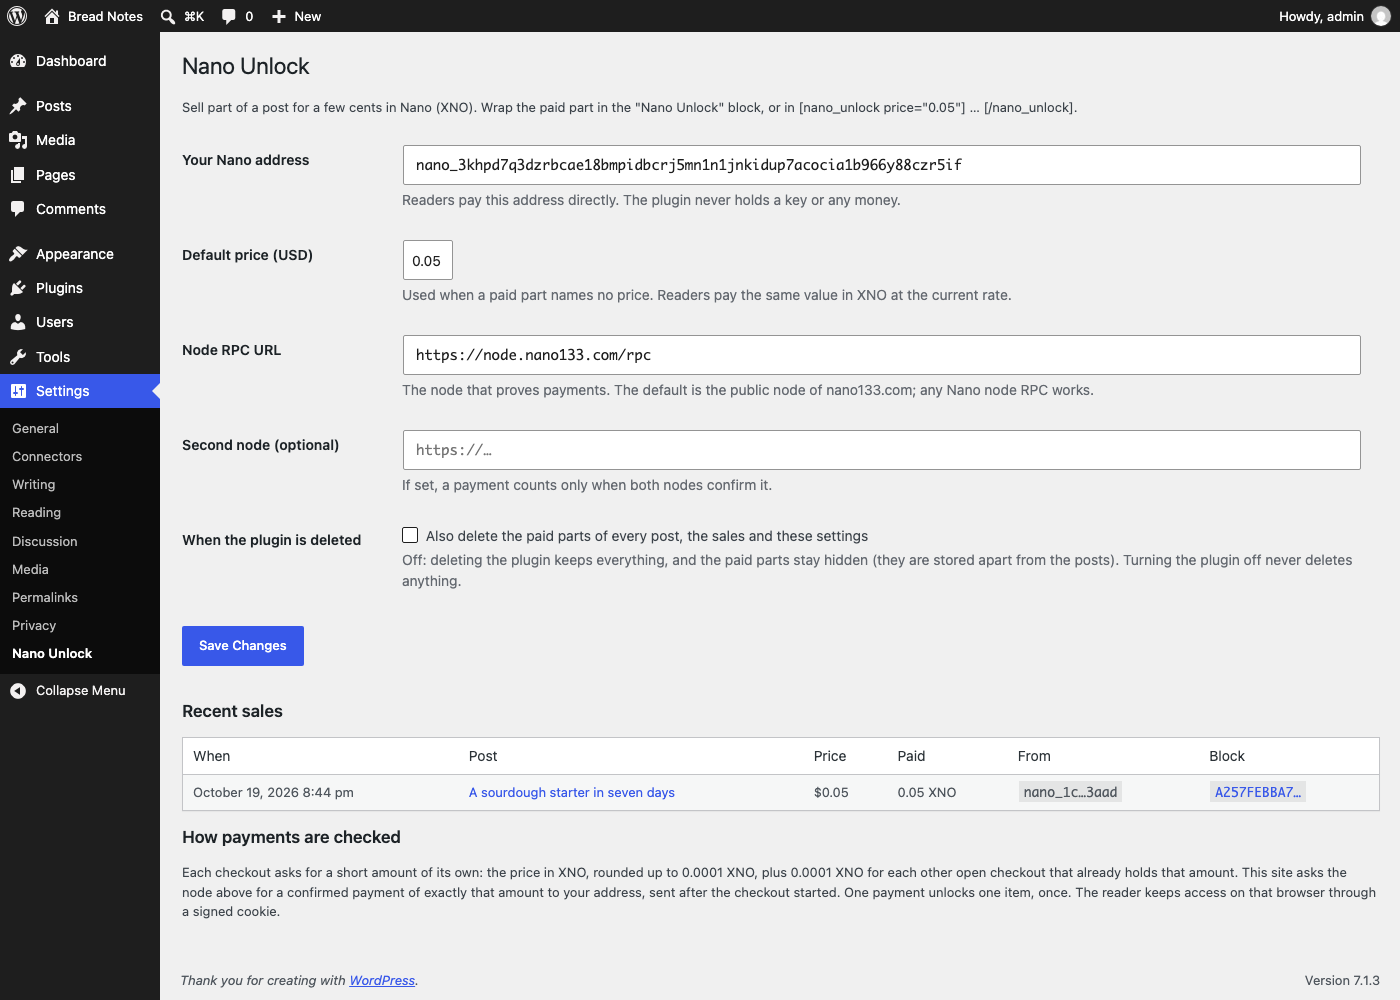
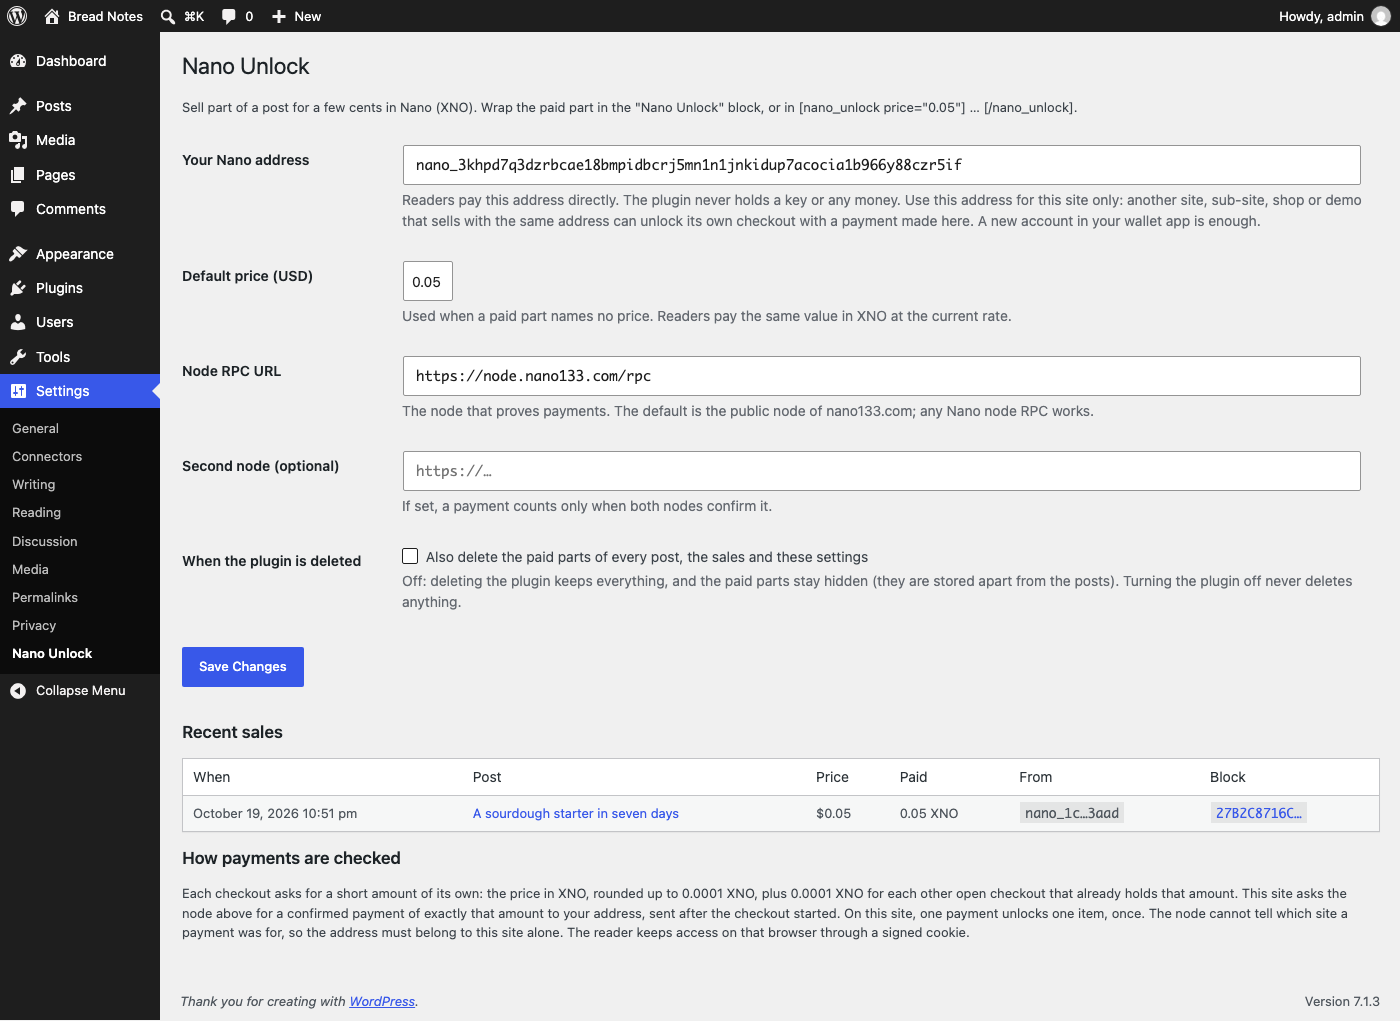
Docs: one address per site, what crosses, CDN visitors, capacity, the scan and the clock
readme.txt and README.md, from the review: "one payment unlocks one item,
once" holds on one site only, and an address must not be shared by two
sites, sub-sites, a shop or the demo (each Playground tab is its own site);
the accepted crossings (a second send, a send after Cancel or after the late
window) can unlock another reader's checkout; behind a CDN that hides the
reader's address, the nano_unlock_client_ip filter; the capacity per price
and the 80-minute hold of a left checkout; the 50-entry scan and opening
the wallet; the node's clock and catch-up; the rate-limit counters in the
privacy answer; multisite uninstall; an Upgrade Notice. Screenshots 2 and
5 made again (the settings page's new address help).

diff --git a/README.md b/README.md
@@ -116,8 +116,16 @@ the paid part with a dashed border and a note, so they can check it.
    address**, first seen by the node **after the checkout started** (its
    `local_timestamp`, with 2 minutes for the clocks; a block without one
    never counts). With a second node, both must agree.
-4. **Once.** The payment's block hash is stored with a unique key, so one
-   payment unlocks one checkout, once.
+4. **Once, on this site.** The payment's block hash is stored with a unique
+   key, so on one site one payment unlocks one checkout, once. A confirmed
+   block's answer is kept for an hour, so an older payment of a repeated
+   amount costs one `block_info` call, not one per poll. **One address
+   serves one site only:** the node can't tell which site a payment was
+   for, and two sites that sell at the same price ask for the same amount,
+   so one payment can unlock a checkout on both (also two sites of one
+   network, a shop on the same address, and each Playground tab of the
+   demo). The settings page says so, and on a network it warns when another
+   site has the same address.
 5. **The receipt.** Only the browser that started the checkout (a random
    httpOnly cookie) gets the receipt. All of a browser's receipts share one
    httpOnly cookie, `nano_unlock_receipts`, signed with the site's key
@@ -172,12 +180,33 @@ checkout that gets the amount. A reader who just leaves the page cancels
 nothing.
 
 **Coincidences.** A payment matches only an open checkout that holds exactly
-its amount, sent to the site's address after that checkout started. The
-plugin's own payments can't cross: two open checkouts never share an amount,
-and a used payment is skipped. Only an outside payment to the same address,
-of exactly that 4-decimal amount, during a reader's checkout, would unlock
-it; the owner still receives that money. Round amounts (0.1 XNO, 1 XNO) are the
-likely ones; an address used only for the plugin has none.
+its amount, sent to the site's address after that checkout started. On one
+site, two open checkouts never share an amount, and a used payment is
+skipped. A payment outside its own checkout's time can unlock another
+reader's checkout of the same amount: a second send, a send more than a
+minute after Cancel, or a send more than an hour after its checkout
+expired. So can an outside payment to the same address of exactly that
+4-decimal amount, and any payment on a second site that uses the same
+address. The owner still receives every payment. Round amounts (0.1 XNO,
+1 XNO) are the likely ones; an address used only by the plugin on one site
+has none.
+
+**The node's clock.** "After the checkout started" uses the node's
+`local_timestamp` and the site's clock, with 2 minutes of allowance. A node
+clock more than 2 minutes behind makes early payments not count. After a
+long node outage, a payment the node catches up on may get the catch-up's
+time (not tested).
+
+**Capacity.** All posts at one price share its amounts. At $0.33 per XNO a
+1¢ price has 31 and a 5¢ price 100; at $3.30 per XNO a 1¢ price has 4. A
+reader who leaves without paying or cancelling holds an amount for 80
+minutes, so at most amounts × 60 / 80 such readers an hour fit at one
+price; after that, new readers get "busy" for up to 80 minutes.
+
+**The scan.** The node gives at most 50 receivable sends and 50 history
+entries (the `node.nano133.com` gateway's cap; `receivable` has no
+`offset`). An owner whose wallet leaves more than 50 sends at or above the
+prices unreceived can hide a new payment until the wallet receives.
 
 ### Wallets
 
@@ -201,9 +230,16 @@ node.
 ## Security
 
 - Every REST call needs the page's REST nonce.
-- Rate limits per visitor address: 20 checkouts per 10 minutes (600 per 10
-  minutes for everyone), at most 10 open checkouts at once, and 180 payment
-  checks (and cancels) per minute.
+- Rate limits per visitor: 20 checkouts per 10 minutes (600 per 10 minutes
+  for everyone), at most 10 open checkouts at once, and 180 payment checks
+  (and cancels) per minute. A visitor is a keyed hash of the address
+  (`wp_hash`), an IPv6 address counted by its /64; no counter is named
+  after an unkeyed hash of an address. The count of open checkouts and the
+  new checkout run under a per-visitor `GET_LOCK` (MySQL, MariaDB), so
+  parallel requests can't pass the limit together; SQLite (Playground) has
+  no named locks and runs without.
+- A checkout request that the browser marks `Sec-Fetch-Site: cross-site`
+  (a page on another site) is refused.
 - The visitor address is `REMOTE_ADDR`. Forwarded headers are not trusted,
   because anyone can send them. Behind a proxy or CDN, set the real header
   with the `nano_unlock_client_ip` filter.
@@ -248,6 +284,9 @@ node.
   from the exchange's address. The checkout asks readers to pay from a
   wallet they control.
 - Nobody can stop a reader from copying text they have unlocked.
+- On a WordPress network, each site has its own table and daily clean-up,
+  and deleting the plugin removes the data of the main site only (when its
+  box is ticked); the other sites' tables and settings stay.
 
 ## Development
 
@@ -256,7 +295,7 @@ npm install
 composer install
 npm start          # wp-env on http://localhost:8888 (admin / password), copies the plugin in
 npm run sync       # copy the plugin into wp-env again after a change
-npm test           # PHPUnit: amounts and their reservation (24 parallel processes on SQLite), receipts and offers, addresses, the payment rules, rendering, the REST routes, settings
+npm test           # PHPUnit: amounts and their reservation (24 parallel processes on SQLite), the table update, receipts and offers, addresses, the payment rules and the block cache, rendering, the REST routes, settings
 npm run test:wp    # integration tests inside WordPress: paid-part storage, migration, amounts on MySQL and the update from 0.1.1, uninstall
 npm run lint       # PHPCS with the WordPress Coding Standards and PHPCompatibilityWP
 npm run e2e        # end-to-end test against a MOCK node (no real network, no real money)
@@ -297,12 +336,15 @@ shortcode and a block) and checks:
   pays a second checkout; another browser gets 403 and no receipt;
 - Cancel: only the starting browser; the amount is held for 3 minutes, then
   goes to the next checkout; after the payment arrived, Cancel unlocks
-  instead;
+  instead; with the node down, Cancel in the browser keeps the checkout and
+  the payment that arrives later still unlocks;
 - node down → 503 and nothing unlocks, and Cancel keeps the amount held;
 - 48 fast polls in 6 s cause 2 `receivable` and 2 history calls;
 - the 11th open checkout from one address → 429; the 21st checkout from one
   address in 10 minutes → 429;
 - 60 parallel checkouts (60 visitors) get 0.1000 … 0.1059 XNO, no two alike;
+- 24 parallel checkouts from one visitor: exactly 10 get an amount; a
+  checkout marked `Sec-Fetch-Site: cross-site` → 403;
   50 more at once: 40 get the last steps, 10 are told "busy";
 - the settings page refuses a mistyped address and lists sales;
 - the block loads in the editor with no warnings or script errors.
@@ -349,7 +391,9 @@ https://playground.wordpress.net/#<the blueprint JSON, URL-encoded>
 **The demo takes real money.** Its checkout is a real one: a visitor who
 pays sends about 1 cent of real XNO to the demo wallet, and the paid part
 unlocks in that Playground tab. The sample post starts with a boxed note
-that says so, and that paying is optional.
+that says so, and that paying is optional. Each Playground tab is its own
+site with the same demo address and price, so one payment can also unlock
+an open checkout of the same amount in another demo tab.
 
 Playground runs PHP in the browser, so the plugin's calls to the node and
 the price feeds are browser requests there, and they need CORS. The node
